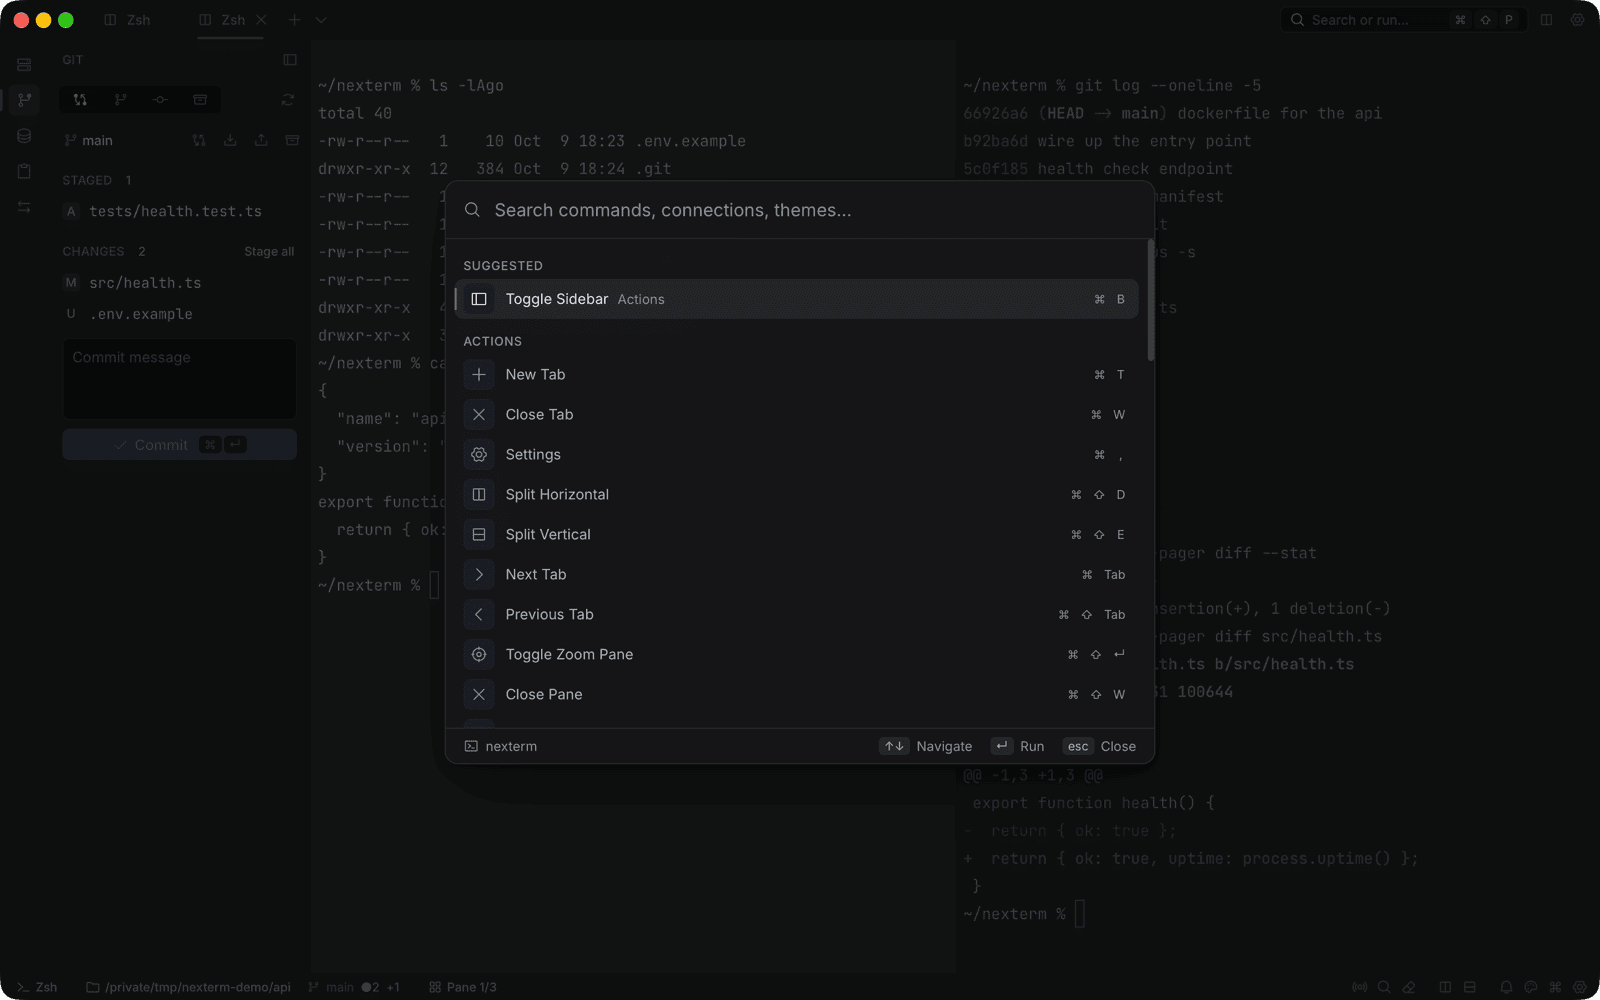
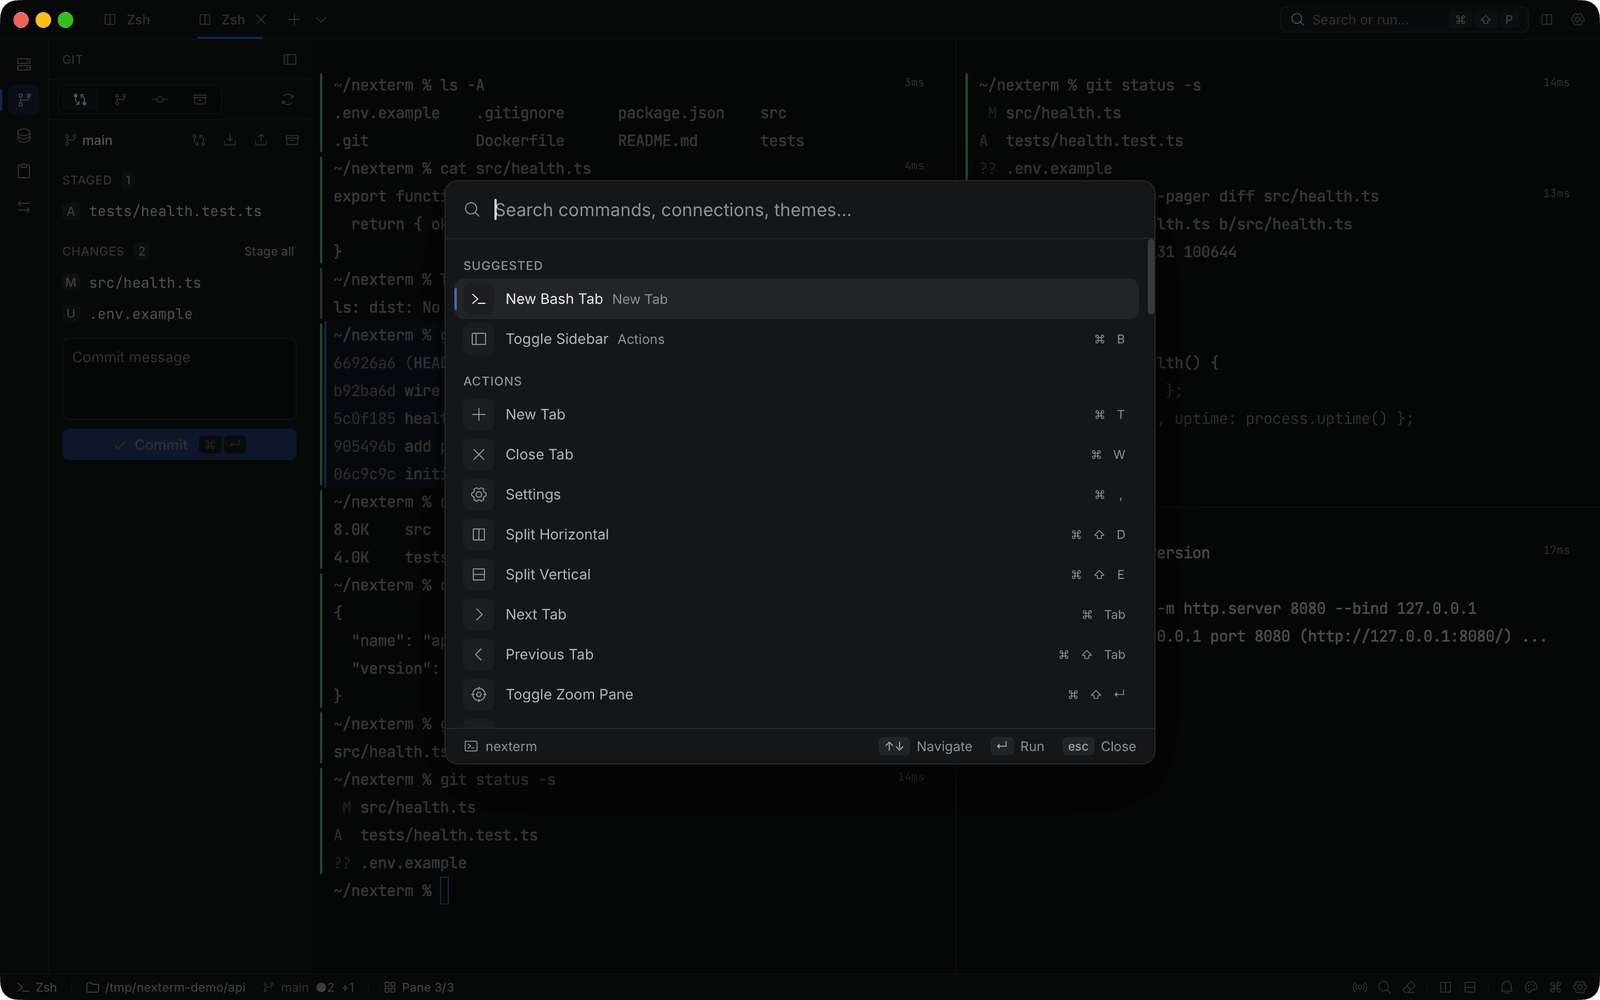
docs: refresh readme and screenshots for v0.9.0

diff --git a/README.md b/README.md
@@ -4,14 +4,14 @@
 
 a terminal that also does your ssh, sftp, git and database work, so you can stop juggling five apps.
 
-[![release](https://img.shields.io/badge/release-v0.8.0-5b95ff?style=flat-square)](https://github.com/k6w/nexterm-terminal-app/releases/latest)
+[![release](https://img.shields.io/badge/release-v0.9.0-5b95ff?style=flat-square)](https://github.com/k6w/nexterm-terminal-app/releases/latest)
 [![ci](https://github.com/k6w/nexterm-terminal-app/actions/workflows/ci.yml/badge.svg?branch=master)](https://github.com/k6w/nexterm-terminal-app/actions/workflows/ci.yml)
 [![platforms](https://img.shields.io/badge/platforms-macos%20%7C%20windows%20%7C%20linux-3a3d44?style=flat-square)](#install)
 [![built with tauri](https://img.shields.io/badge/built%20with-tauri%202-24c8db?style=flat-square)](https://tauri.app)
 
 <br>
 
-<img src=".github/assets/screenshots/hero.png" alt="nexterm with three split panes and the git panel open" width="900">
+<img src=".github/assets/screenshots/hero.png" alt="nexterm with command blocks in a zsh split and the git panel open" width="900">
 
 </div>
 
@@ -32,6 +32,16 @@ nexterm is a desktop terminal built with tauri, react and rust. on top of a fast
 - a scratchpad that drops down over everything (`` ⌥` ``)
 - tracks the working directory of each pane, so new splits open where you are
 - scrollback survives restarts, and you can pick new tab, restore or a workspace on launch
+
+**command blocks**
+- every command and its output becomes a block. a gutter on the left shows whether it's running, succeeded or failed, and the prompt line shows how long it took
+- click the gutter to select a block, shift+click to select a range, or jump between blocks from the keyboard (`⌘↑` / `⌘↓`)
+- hover a block to copy the command, the output or both, re-run it, open the output in a viewer, or copy it as text to share. the right-click menu has the same actions
+- re-run only types at an idle prompt, and anything nexterm can't vouch for is pasted for you to check instead of run
+- block keys only work at the shell prompt, so vim and tmux keep theirs
+- it runs on shell integration for zsh, bash and fish, which nexterm sets up for local shells without touching your dotfiles. the marks are signed per session, so a program's output can't fake a block
+- on a server, paste the snippet from settings, terminal into your shell's rc file to get blocks over ssh too
+- both shell integration and command blocks can be turned off in settings, terminal
 
 **ssh**
 - saved connections with folders, color tags, startup commands and env vars
@@ -54,9 +64,15 @@ nexterm is a desktop terminal built with tauri, react and rust. on top of a fast
 - postgres, mysql, sqlite and mongodb
 - query editor with history, a results grid and csv or json export
 
+**workspaces**
+- save your open tabs and splits as a workspace: local shells with their folders, ssh and sftp sessions and serial ports
+- open one to replace your tabs or add to them, from the sidebar or the command palette
+- give any pane startup commands that run once its shell is ready
+- rename, duplicate or update a workspace from the current layout, and see when you last opened it
+- pick a workspace (or your last session) to come back on launch
+
 **everything else**
-- command palette with commands, connections, snippets and themes (`⌘⇧P`)
-- workspaces: save your tabs and splits, open them again later
+- command palette with commands, connections, workspaces, snippets and themes (`⌘⇧P`)
 - clipboard history (`⌘⇧V`)
 - snippets with variables like `{{host}}`, `{{cwd}}` and `{{date}}`
 - serial ports for when you're talking to a board
@@ -68,8 +84,16 @@ nexterm is a desktop terminal built with tauri, react and rust. on top of a fast
 
 <table>
   <tr>
-    <td width="50%"><img src=".github/assets/screenshots/split-drop-zones.png" alt="dragging a tab onto a pane shows split drop zones"></td>
-    <td width="50%"><img src=".github/assets/screenshots/command-palette.png" alt="command palette"></td>
+    <td width="50%"><img src=".github/assets/screenshots/command-blocks.png" alt="command blocks with the hover toolbar"></td>
+    <td width="50%"><img src=".github/assets/screenshots/workspaces.png" alt="saved workspaces in the sidebar"></td>
+  </tr>
+  <tr>
+    <td align="center"><sub>command blocks and their hover toolbar</sub></td>
+    <td align="center"><sub>saved workspaces</sub></td>
+  </tr>
+  <tr>
+    <td><img src=".github/assets/screenshots/split-drop-zones.png" alt="dragging a tab onto a pane shows split drop zones"></td>
+    <td><img src=".github/assets/screenshots/command-palette.png" alt="command palette"></td>
   </tr>
   <tr>
     <td align="center"><sub>drag a tab onto a pane to split it</sub></td>
@@ -155,12 +179,16 @@ on windows and linux, read `⌘` as `ctrl`.
 | move pane to its own tab | `⌘⇧T` | `ctrl+shift+t` |
 | focus next / previous pane | `⌥]` / `⌥[` | `alt+]` / `alt+[` |
 | find in terminal | `⌘F` | `ctrl+f` |
+| previous / next command block | `⌘↑` / `⌘↓` | `ctrl+shift+↑` / `ctrl+shift+↓` |
+| extend block selection | `⌘⇧↑` / `⌘⇧↓` | `ctrl+alt+shift+↑` / `ctrl+alt+shift+↓` |
+| copy selected block output | `⌘C` | `ctrl+shift+c` |
+| clear block selection | `esc` | `esc` |
 | clipboard history | `⌘⇧V` | `ctrl+shift+v` |
 | scratchpad | `` ⌥` `` | `` alt+` `` |
 | toggle sidebar | `⌘B` | `ctrl+b` |
 | settings | `⌘,` | `ctrl+,` |
 
-copy and paste in the terminal are `ctrl+shift+c` and `ctrl+shift+v` on windows and linux. on macos the usual `⌘C` and `⌘V` work. you can rebind any of these in settings, keybindings.
+copy and paste in the terminal are `ctrl+shift+c` and `ctrl+shift+v` on windows and linux. on macos the usual `⌘C` and `⌘V` work. the command block keys only kick in at the shell prompt, so full-screen apps like vim and tmux keep them, and copy still copies selected text when there is some. you can rebind any of these in settings, keybindings.
 
 ## themes
 
@@ -210,13 +238,15 @@ src/                     react front end
 │                        clipboard, serial, welcome
 ├── ui/                  the design kit: buttons, dialogs, menus, inputs
 ├── stores/              zustand state (tabs and panes, settings, theme, ssh…)
-├── lib/                 keybindings, ipc wrappers, theme schema, helpers
+├── lib/                 keybindings, command blocks, workspace snapshots,
+│                        ipc wrappers, theme schema, helpers
 ├── themes/              the four built-in themes as json
 └── types/               shared typescript types
 
 src-tauri/src/           rust back end
 ├── commands/            tauri commands the front end calls
 ├── pty/                 local shells and cwd tracking
+├── shell_integration/   zsh, bash and fish scripts for command blocks
 ├── sftp/                sftp sessions over russh
 ├── port_forward/        local, remote and dynamic tunnels
 ├── known_hosts/         reading and safely rewriting known_hosts
@@ -232,6 +262,7 @@ src-tauri/src/           rust back end
 - **host keys.** before an ssh or sftp session starts, nexterm checks the server key against your own `~/.ssh/known_hosts`. new hosts ask you to trust the fingerprint. a changed key stops the connection and shows both fingerprints. it's only replaced after you type the end of the new fingerprint, and only if the file still holds the key you were shown. a backup of `known_hosts` is written first.
 - **ssh passwords are never saved.** there's no column for them. ssh asks each time, or you use a key or your agent.
 - **keys stay where they are.** keys picked up from `~/.ssh/config` are stored as a path and read at connect time. if you paste a private key into settings, keys, it's stored in the app database encrypted with aes-gcm. that key is derived from the machine, so treat it as protection against casual reading, not against someone with access to your account.
+- **shell integration leaves your dotfiles alone.** its scripts live in a `shell-integration` folder inside the app data folder and are loaded at launch (through `ZDOTDIR` for zsh, `--rcfile` for bash, `-C` for fish), and they source your own config as usual. each session gets a random secret that the prompt and exit marks have to carry, so output from a program can't pose as a command block, and a re-run never runs a command it didn't see you type.
 - **database passwords are saved** in the local app database so the client can reconnect. keep that in mind on shared machines.
 - **where things live.** settings, connections, history and scrollback are in `nexterm.db` inside the app data folder (`~/Library/Application Support/com.nexterm.terminal` on macos, `%APPDATA%\com.nexterm.terminal` on windows, `~/.local/share/com.nexterm.terminal` on linux).
 - **updates** are signed and checked against a public key built into the app.
@@ -242,10 +273,14 @@ src-tauri/src/           rust back end
 - [x] lazy-loaded panels for a faster start
 - [x] `~/.ssh/config` import and quick connect from the palette
 - [x] safe in-place host key replacement
-- [ ] full workspace restore, including ssh sessions and panels (in progress)
-- [ ] command blocks: each command and its output as its own block (planned)
+- [x] full workspace restore, including ssh, sftp and serial panes and startup commands
+- [x] command blocks with shell integration for zsh, bash and fish
+- [ ] collapse a command block's output
+- [ ] fish integration checked on more versions and setups (it works, but has had the least real use)
+- [ ] secrets in the system keychain instead of the app database
+- [ ] encrypted sync of connections and settings between machines
+- [ ] ai help for writing and explaining commands
 - [ ] notarized macos builds
-- [ ] v0.9.0 release
 
 ## contributing
 
